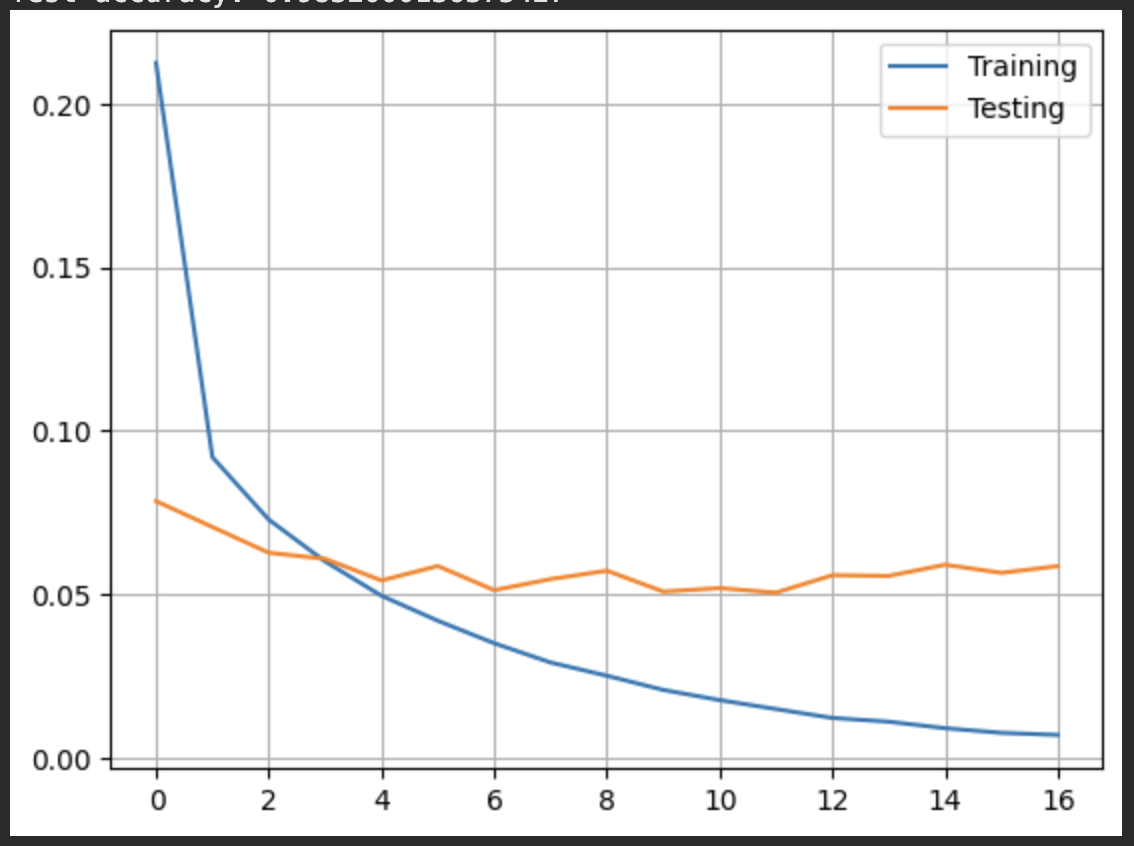
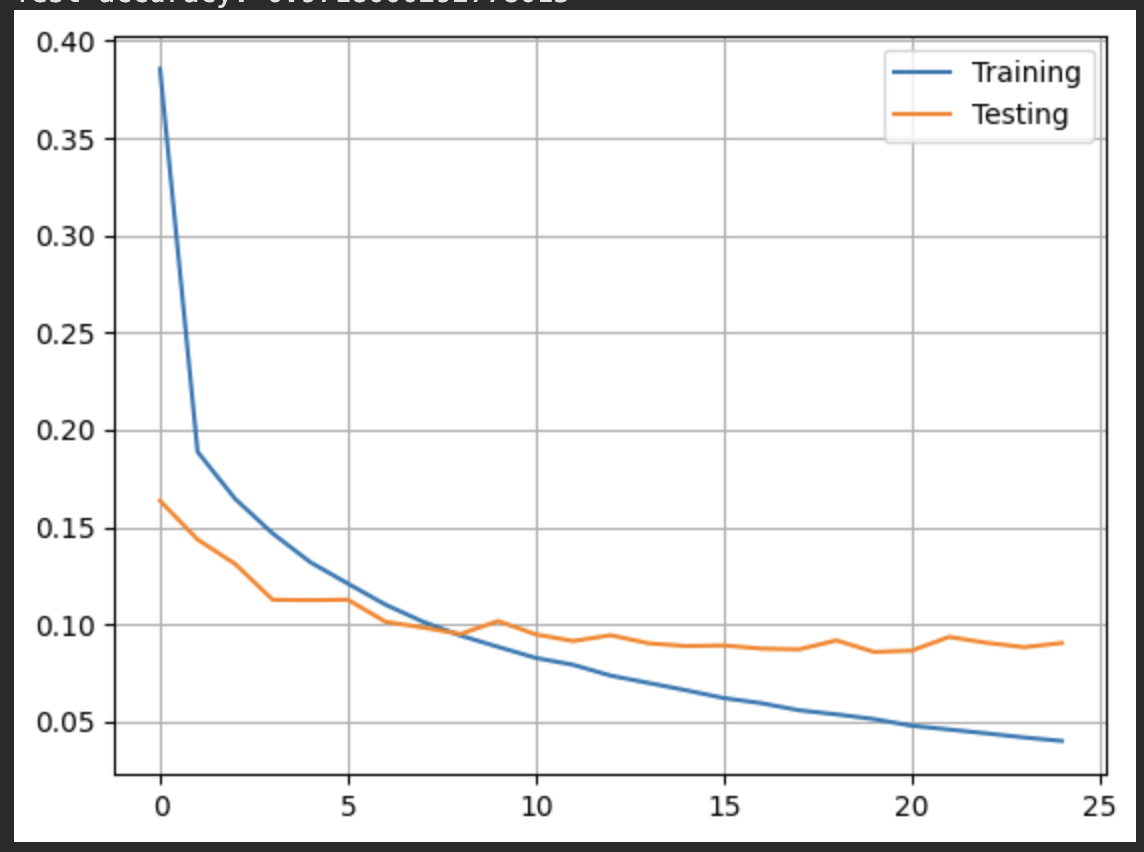
Ex3 done

Changed region(s): [[0.0, 0.0, 1.0, 0.9835]]

diff --git a/report.md b/report.md
@@ -41,7 +41,7 @@ The dropout layer has no trainable parameters, it only randomizes zeroes activat
 
 THis matches the output we have in the `.ipynb` given by keras.
 
-![keras resume for weight count](assets/keras_weight_count_ex2.png)
+![keras resume for weight count](assets/ex2/keras_weight_count_ex2.png)
 
 ### 2.4 Three configurations and their results
 
@@ -54,7 +54,7 @@ THis matches the output we have in the `.ipynb` given by keras.
 - The model is severly underfitting. With only 2 hidden neurons, the capacity is far too limited for 10 classes classification problem. The loss curves almost don't decrease and the confusion matrix reveals taht almost all predictions collapse into one or two classes (mostly 1 and 6). This demonstrates that the neural network has almost no discriminative capacity.
 - This configuration serves as a lower bound and illustrates how critical the model's capacity is for this problem.
 
-![graph for 1st configuration](assets/graph_config1.png)
+![graph for 1st configuration](assets/ex2/graph_config1.png)
 
 #### Configuration 2
 
@@ -65,7 +65,7 @@ THis matches the output we have in the `.ipynb` given by keras.
 - Test loss : 0.1049
 - Big improvment over the first configuration. Switching from 1 hidden layer to 2, using ReLu instead of sigmoid and increasing the number of neurons from 2 to 128 significantly increases the model's capacity and allows it to capture the non-linearities and complex patterns of the digit dataset. Despite the improvements, the model still overfits after ~12 epochs.
 
-![graph for 2nd configuration](assets/graph_config2.png)
+![graph for 2nd configuration](assets/ex2/graph_config2.png)
 
 #### Configuration 3
 
@@ -79,7 +79,7 @@ THis matches the output we have in the `.ipynb` given by keras.
 - This configuration was also tested with Adam optimizer instead of RMSprop. The results were almost identical, with no significant difference in terms of performance. The accuracy was 98.1% with a validation loss of 0.0597 and stopped at epoch 14
 - Thid configuration was also tested with 2 hidden layers instead of 1. Accuracy is almost the same, with 98.28% and it goes on for one more epoch, stopping at epoch 14. We still have a better final validation loss with 1 hidden layer.
 
-![graph for 3rd configuration](assets/graph_config3.png)
+![graph for 3rd configuration](assets/ex2/graph_config3.png)
 
 #### Confusion matrix for the 3rd configuration
 
@@ -94,12 +94,88 @@ And sometimes :
 - 5 interpreted as 3
 - 8 interpreted as 3
 
-![confusion matrix for the 3rd configuration 1](assets/confusion_matrix_config3_1.png)
+![confusion matrix for the 3rd configuration 1](assets/ex2/confusion_matrix_config3_1.png)
 
-![confusion matrix for the 3rd configuration 2](assets/confusion_matrix_config3_2.png)
+![confusion matrix for the 3rd configuration 2](assets/ex2/confusion_matrix_config3_2.png)
 
-![confusion matrix for the 3rd configuration 3](assets/confusion_matrix_config3_3.png)
+![confusion matrix for the 3rd configuration 3](assets/ex2/confusion_matrix_config3_3.png)
 
-
+---
 
 ## 3. Digit recognition from features of the input data
+
+### 3.1 Learning algorithm, params and loss function
+
+This is the same as [2.1](#2.1-learning-algorithm-params-and-loss-function), same parameters and loss function.
+
+### 3.2 Neural network topology
+
+Histograms of Oriented Gradients (HOG) is a feature descriptor that captures local shape and appearance information from images by describing the local intensity variations in the image. HOG features are computed by dividing the image into small regions and computing the gradient orientation histogram for each region.
+
+Instead of using raw pixels values like previously, we used HOG for this exercice, with these parameters
+- pix_per_cell = 4
+- n_orientations = 9
+- size formula : $hog\_size = \frac{height \times width \times n\_orientations}{pix\_per\_cell^2} = \frac{28 \times 28 \times 9}{4^2} = 441$
+
+### 3.3 Weight count
+
+- **Input -> Hidden (512)** : $441 \times 512 = 225 792$ weights + $512$ biases = $226 304$
+- **Hidden -> Output (10)** : $512 \times 10 = 5 120$ weights + $10$ biases = $5 130$
+- **Total** : $226 304 + 5 130 = 231 434$ parameters
+
+Again the keras summary is consistent with our manual calculation.
+
+![keras summary for weight count ex3](assets/ex3/keras_weight_count_ex3.png)
+
+We can notice that the number of parameters is significantly reduced compared to the previous exercise (~231k vs ~407k), but completly normal as we go from 784 pixel to 441 features.
+
+### 3.4 Three configurations and their results
+
+As we got good results in the previous exercise, we decided to keep the same topology for the following configurations. We have 1 hidden layer with 512 neurons, dropout with p=0.2, early stopping with patience = 5 and softmax output. We only changed the pix_per_cell and n_orientations parameters.
+
+#### Configuration 1
+
+**First configuration, is the baseline model as it was given to us.**
+
+pix_per_cell = 4, n_orientations = 9, 2 hidden neurons, epochs = 3, batch_size = 128, no dropout and no early stopping.
+- Test accuracy : ~52%
+- With only 2 hidden neurons and ReLu activation, the model severly underfits. The confusion matrix reveals that predictions collapse into one or two classes. The class 5 is almost never predicted.
+- This mirrors the baseline failure from the previous exercise, the bottleneck of 2 neurons prevents the model from learning a meaningful representation of the HOG features.
+
+![graph for 1st configuration ex3](assets/ex3/graph_config1.png)
+
+#### Configuration 2
+
+**Large cells, fewer features.**
+
+pix_per_cell = 7, n_orientations = 8, hog_size = 128
+- Test accuracy : 97.18%
+- Stopped at epoch 25
+- With larger cells (7x7 pixels), each cell covers a much larger portion of the 28x28 image. the HOG vector is reduced to only 128 features, capturing more global information about the digit's shape. The training curve shows oscillations in the validation loss, reflecting unstable learning due to the limited feature representation.
+
+![graph for 2nd configuration ex3](assets/ex3/graph_config2.png)
+
+#### Configuration 3
+
+**Final selected model.**
+
+pix_per_cell = 4, n_orientations = 9, hog_size = 441, dropout p = 0.2, early stopping patience = 5
+- Test accuracy : 98.41%
+- Stopped at epoch 11
+- Small 4x4 cells preserve local gradient information across 49 cells per image. Using 9 orientations provides a well-calibrated angular resolution. We tested 10 and 12 orientations, but it didn't improve the accuracy. Both losses converge rapidely at the beginning, with the validation stopping at epoch 11 with a `val_loss = 0.5`.
+
+![graph for 3rd configuration ex3](assets/ex3/graph_config3.png)
+
+
+#### Confusion matrix for the 3rd configuration
+
+The following confisions correspond to digits sharing similar stroke orientations in specific image regions. Even a well tuned HOG representation has some trouble to distinguish them. For instance :
+- 5 is interpreted as 3
+- 4, 7 and 8 are often confused with 9
+- 9 is interpreted as 4
+
+![confusion matrix for the 3rd configuration ex3](assets/ex3/confusion_matrix_1.png)
+
+![confusion matrix for the 3rd configuration ex3](assets/ex3/confusion_matrix_2.png)
+
+![confusion matrix for the 3rd configuration ex3](assets/ex3/confusion_matrix_3.png)
